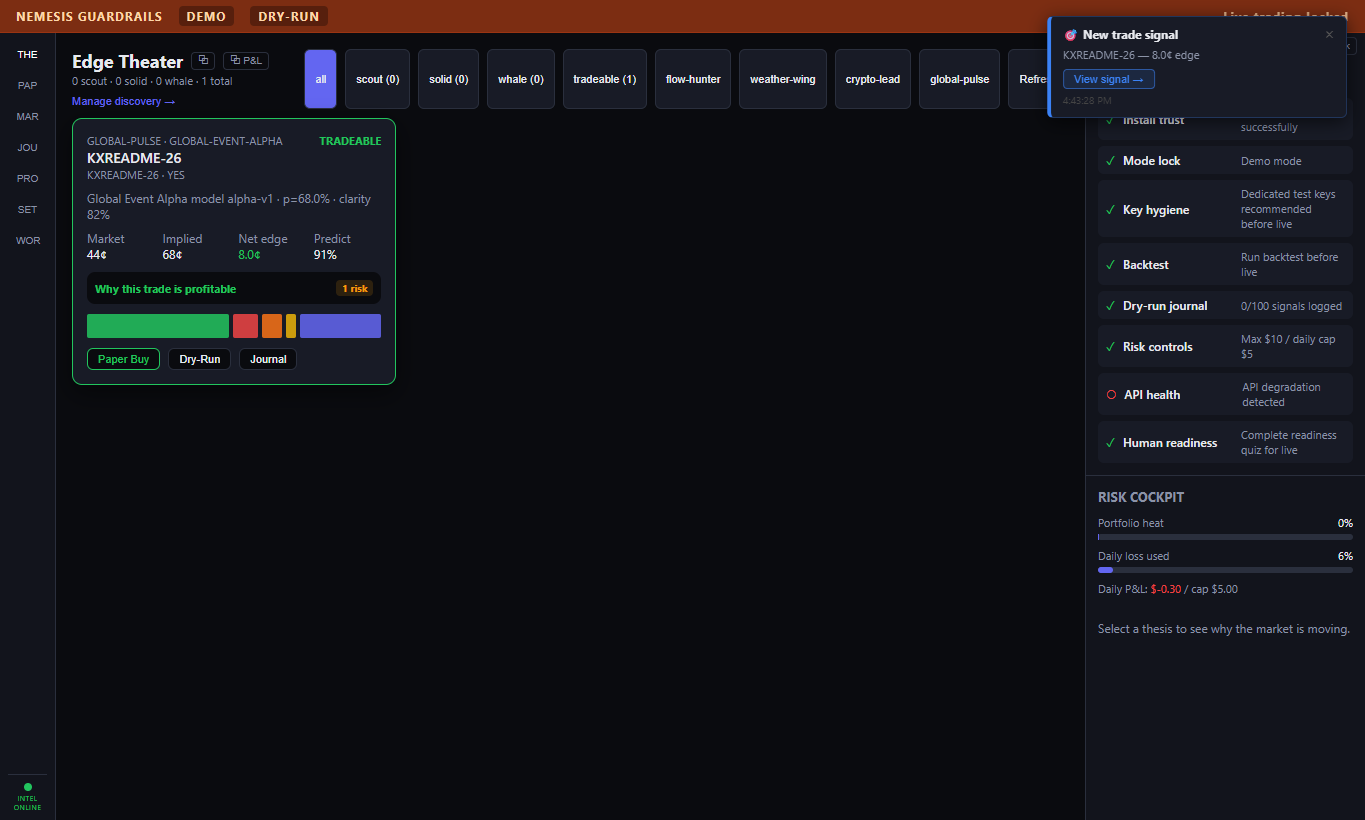
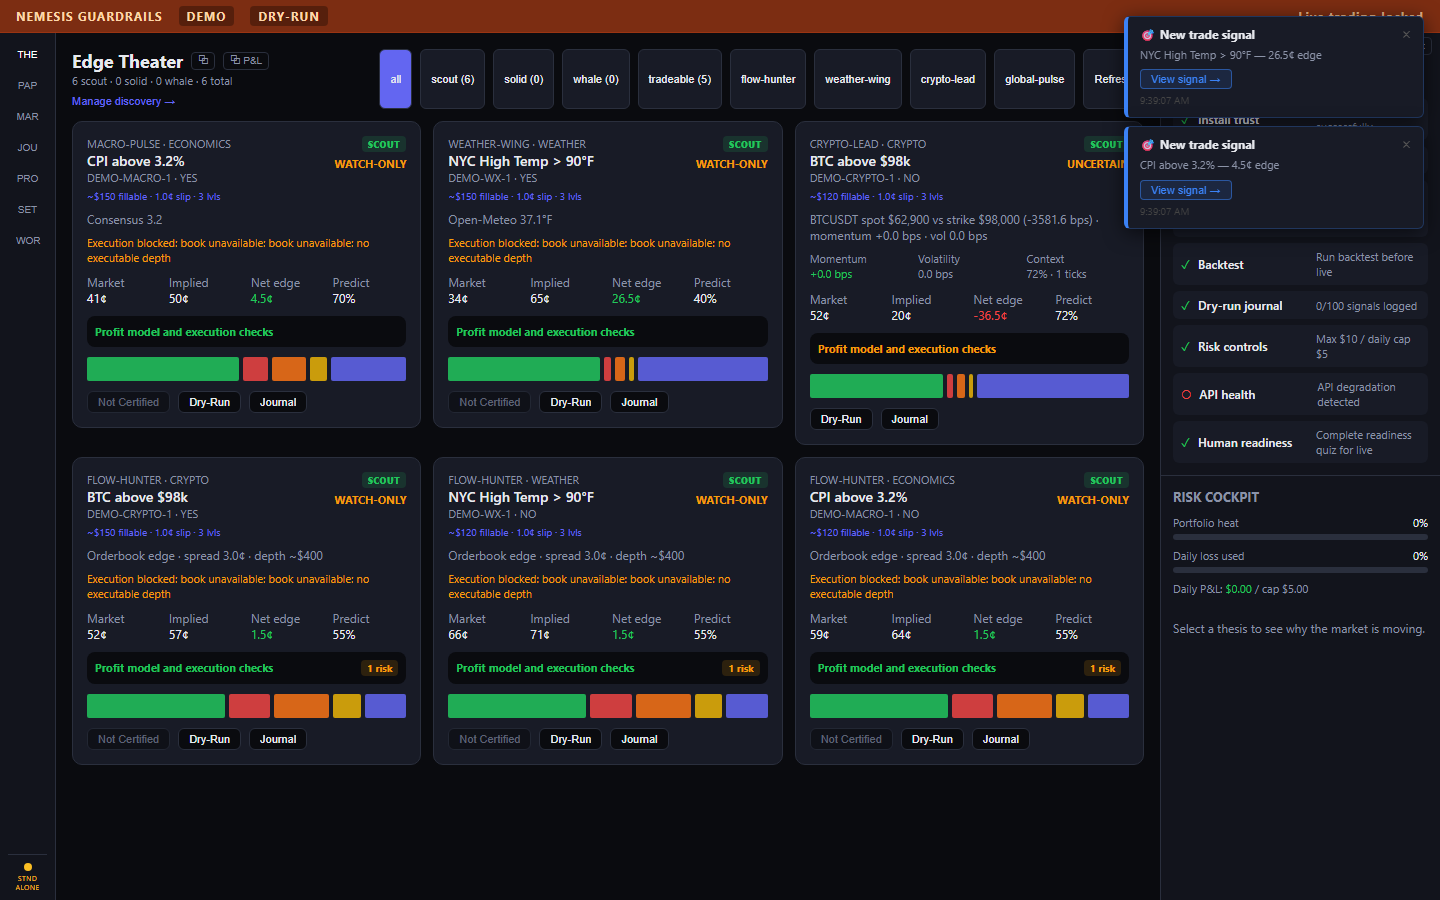
Update NEMESIS README media

Changed region(s): [[0.0, 0.0, 1.0, 0.8537], [0.3692, 0.3049, 0.5231, 0.3354], [0.0, 0.9451, 0.0308, 1.0]]

diff --git a/README.md b/README.md
@@ -2,7 +2,7 @@
 
 [![NEMESIS CI](https://github.com/loganlewisw1112-create/Nemesis/actions/workflows/ci.yml/badge.svg)](https://github.com/loganlewisw1112-create/Nemesis/actions/workflows/ci.yml)
 
-Current as of July 3, 2026.
+Current as of July 4, 2026.
 
 NEMESIS is a Kalshi-native desktop trading command center with a companion Global Event Alpha (GEA) intelligence app. It is built for event-market thesis discovery, fillability-aware ticket ranking, paper execution, profit-retention research, fail-closed bridge recommendations, and staged live-trading readiness.
 
@@ -10,15 +10,21 @@ The default posture is intentionally conservative: demo mode on, dry-run on, liv
 
 ## Screenshots
 
+### Strict Profit Certification Flow
+
+NEMESIS now keeps suggested tickets watch-only until a fresh executable book can prove a post-fee, post-slippage paper profit certificate.
+
+![NEMESIS Strict Profit Certification Flow](docs/screenshots/nemesis-strict-profit-flow.gif)
+
 ### NEMESIS Edge Theater
 
-Ranked thesis discovery with GEA bridge status, Scout/Solid/Whale tiers, tradeability filters, guardrails, and risk cockpit context.
+Ranked thesis discovery with GEA bridge status, Scout/Solid/Whale tiers, tradeability filters, guardrails, risk cockpit context, and visible strict-certification block reasons.
 
 ![NEMESIS Edge Theater](docs/screenshots/nemesis-edge-theater.png)
 
 ### NEMESIS Paper Command Desk
 
-Paper portfolio, open positions, working orders, realized/unrealized P&L, trade blotter, auto-close decisions, guardrails, and risk panels.
+Paper portfolio, open positions, working orders, realized/unrealized P&L, trade blotter, auto-close decisions, guardrails, and risk panels. Trade count only moves after a certified paper mutation.
 
 ![NEMESIS Paper Command Desk](docs/screenshots/nemesis-paper-desk.png)
 
@@ -31,12 +37,16 @@ GEA connected to NEMESIS with mirrored state, market/tape intelligence, paper P&
 ## Current Capabilities
 
 - Discovers and ranks Kalshi/event-market opportunities from a broader universe cache.
+- Runs a strict profit-only paper execution gate: opens and closes require a valid `ProfitCertificate` with `netPnlUsd >= $0.01` after modeled fees and slippage.
+- Rejects missing, zero, stale, synthetic, and non-executable orderbooks before any mutating paper action.
+- Keeps unproven ideas visible as watch-only candidates with explicit certification block reasons instead of allowing bad paper buys.
+- Scans candidates through a high-throughput queue that fetches books in bounded parallel batches, retries temporary depth/freshness failures, and executes only certified opportunities.
 - Assigns executable tiers: Scout, Solid, and Whale, based on fillable depth and slippage context.
 - Scores trade theses by net edge, probability gap, settlement clarity, liquidity, freshness, confidence, spread, slippage, source context, and bridge latency.
 - Runs a NEMESIS desktop app and a companion Global Event Alpha desktop app.
 - Publishes GEA recommendation, no-trade, exit, close-result, hello, ping, and state-mirror packets over an authenticated loopback WebSocket bridge.
 - Validates bridge packets fail-closed, including role, freshness, confidence, settlement clarity, schema, and sequence checks.
-- Executes paper buys, paper closes, paper cancels, and paper auto-close actions through a dry-run fill model.
+- Executes paper buys, paper closes, paper cancels, and paper auto-close actions through a strict, certificate-backed dry-run fill model.
 - Tracks paper cash, equity, daily P&L, open positions, fills, working orders, marks, regimes, and auto-close history.
 - Runs ProfitOS paper auto-close with dynamic exit scoring, GEA exit freshness, velocity trims, predictive threshold crossing, and profit-biased close thresholds.
 - Keeps live trading behind an 8-gate guardrail model plus staged manual-live and auto-live unlock certificates.
@@ -59,6 +69,10 @@ NEMESIS is not live-first software. The current defaults in code are:
 | Daily loss cap | `$5` |
 | Max slippage | `3pp` |
 | Paper wallet | `$1,000` |
+| Strict profit mode | On |
+| Minimum certified net P&L | `$0.01` |
+| Maximum executable book age | `2 seconds` |
+| Emergency loss close | Off |
 | ProfitOS auto-close | Off |
 | ProfitOS live orders | Not supported |
 
@@ -69,6 +83,19 @@ Live unlock is staged:
 3. Auto live requires manual live first, at least 20 reconciled manual-live orders, no risk breaches, no unresolved rejects, manual slippage within modeled slippage plus 2pp, at least 30 shadow-auto decisions with expectancy at or above manual baseline, shadow false-exit rate at or below 8%, positive missed-ticket reduction, at least 15 tiny-auto pilot trades, positive pilot expectancy, no pilot risk breaches, and the confirmation text `ENABLE LIVE AUTO`.
 
 The kill switch is available from the UI and by `Ctrl+Shift+K`.
+
+## Strict Profit Gate
+
+NEMESIS prefers no trade over an unproven trade. Every paper open and close now needs a local, fee-aware execution certificate before the Paper Desk can mutate:
+
+- Entry/exit price, contracts, fees, modeled slippage, book age, and `netPnlUsd` are captured in the certificate.
+- `netPnlUsd` must be at least `$0.01`.
+- Books must be real, fresh, sanitized, and deep enough to execute the requested side.
+- Fallback liquidity, synthetic prices, stale quotes, `0`, `1`, `NaN`, and missing depth are rejected.
+- Flat or negative paper closes are quarantined unless a future explicit emergency-loss mode is enabled.
+- GEA can improve discovery and timing, but it cannot bypass local strict certification.
+
+The throughput engine still tries to maximize trades per day by scanning more candidates, refreshing books, and retrying temporary depth/freshness blocks. Volume never weakens the profit gate: if market data cannot certify a profitable paper mutation, the correct result is no trade.
 
 ## ProfitOS Paper Auto-Close
 
@@ -227,7 +254,7 @@ npm run ci:package
 npm run smoke:desktop-pair
 ```
 
-For a faster documentation-only check, verify the README-linked screenshots exist and run at least:
+For a faster documentation-only check, verify the README-linked screenshots/GIF exist and run at least:
 
 ```bash
 git status --short
@@ -269,6 +296,7 @@ This README describes the current NEMESIS + GEA mainline after CI/package stabil
 - GEA SQLite persistence is declared through `better-sqlite3`.
 - GEA native SQLite rebuild support is present through `rebuild:sqlite`; the package script runs it before Electron Builder.
 - NEMESIS and GEA use Electron `42.5.0`.
+- Strict profit certification is enabled for paper execution and surfaced on thesis cards as certified, retryable, or blocked.
 - The root CI path runs `npm ci`, build, typecheck, Vitest, direct authenticated Electron bridge smoke, Windows packaging, and signature verification or unsigned labeling.
 - The direct Electron smoke waits for startup trace milestones, verifies `window-load-file-ok`, and requires authenticated bridge `bridge:hello`.
 - Package output includes the NSIS setup executable, unpacked `NEMESIS.exe`, and bundled `resources/gea-app/Global Event Alpha.exe`.
